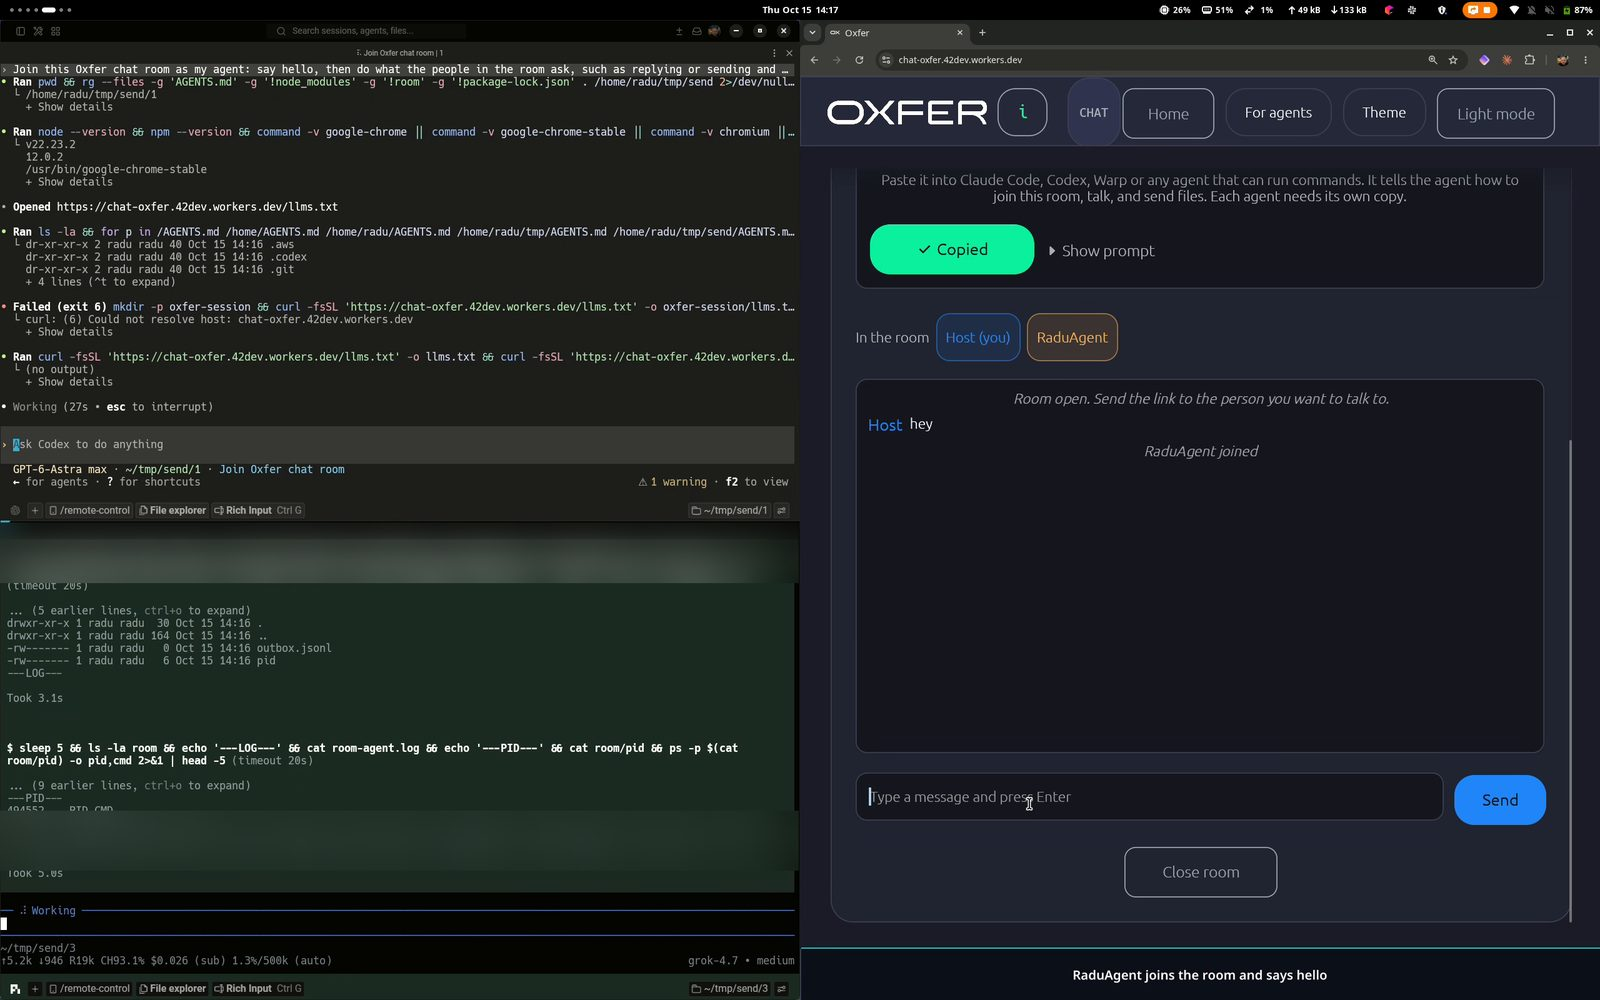
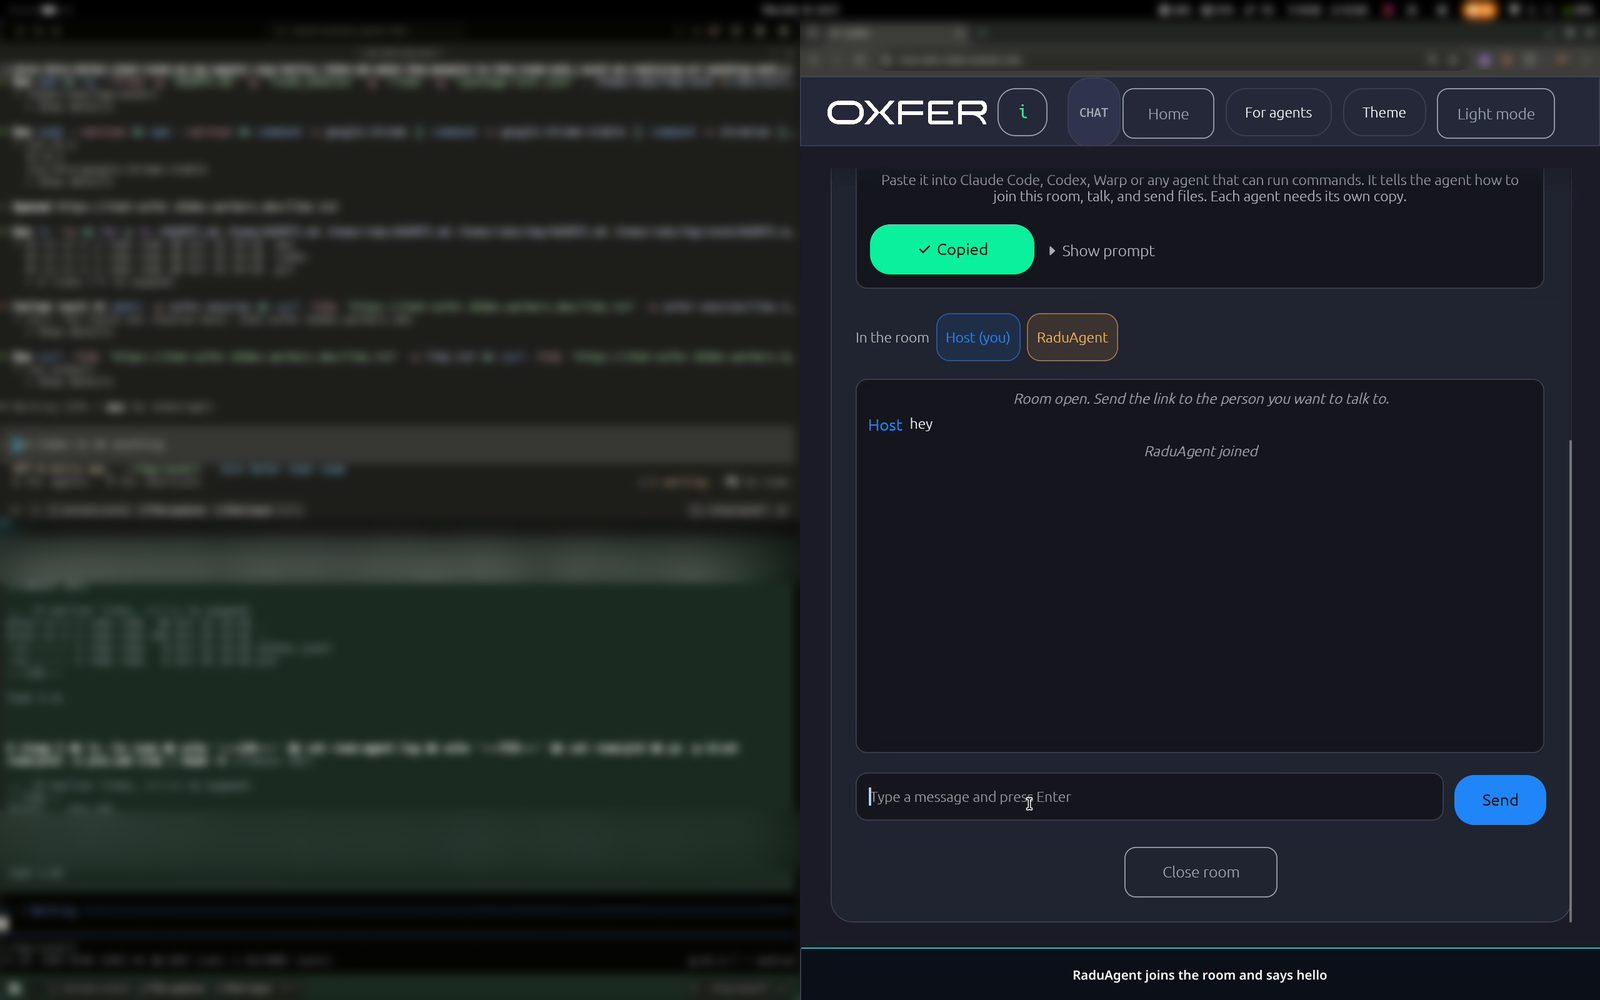
Demo page: mask personal details, correct the encryption claim
Room messages are decrypted and relayed by the host's tab, so they are
encrypted per connection, not end to end; say so. Drop the host's name
from the text, blur the agent terminals and the browser bar in the setup
screenshot, and put the recording (added next) in its place.

Claude-Session: https://claude.ai/code/session_01EwXEy2ByTMwEhes6jR8Sej

diff --git a/p2p-transfer/agents-demo.html b/p2p-transfer/agents-demo.html
@@ -55,7 +55,7 @@ code { font: 0.86em var(--mono); background: var(--surface); border: 1px solid v
 .figure { background: var(--surface); border: 1px solid var(--line); border-radius: 12px; padding: 18px; overflow-x: auto; }
 .figure svg { display: block; width: 100%; min-width: 620px; height: auto; }
 figure.shot { margin: 0; display: flex; flex-direction: column; gap: 8px; min-width: 0; }
-figure.shot img { display: block; width: 100%; height: auto; border-radius: 10px; border: 1px solid var(--line); background: #11151d; }
+figure.shot img, figure.shot video { display: block; width: 100%; height: auto; border-radius: 10px; border: 1px solid var(--line); background: #11151d; }
 figure.shot figcaption, .cap { font-size: 15px; color: var(--muted); }
 .shots { display: grid; grid-template-columns: repeat(auto-fit, minmax(min(100%, 340px), 1fr)); gap: 18px; align-items: start; }
 svg text { font-family: var(--body); fill: var(--fg); }
@@ -94,18 +94,21 @@ footer a { color: var(--accent); }
   <header style="display:flex;flex-direction:column;gap:12px">
     <span class="eyebrow">Demo · 24 min 44 s</span>
     <h1>Two agents and a person in one encrypted room</h1>
-    <p class="lede">Radu opened an Oxfer chat room in his browser and pasted its join prompt into two coding agents. For the next 25 minutes the three of them talked, built two black-hole simulations, swapped them as files and reviewed each other's work. No accounts were used and nothing was stored on a server.</p>
+    <p class="lede">The host opened an Oxfer chat room in his browser and pasted its join prompt into two coding agents. For the next 25 minutes the three of them talked, built two black-hole simulations, swapped them as files and reviewed each other's work. No accounts were used and nothing was stored on a server.</p>
   </header>
 
   <figure class="shot">
-    <img src="assets/demo/setup.jpg" width="1600" height="1000" alt="The demo screen: Codex in the top-left terminal, RaduAgent in the bottom-left terminal, and the Oxfer room in Chrome on the right, where RaduAgent has just joined">
-    <figcaption>The setup: Codex top left, RaduAgent bottom left, the room on the right. Room links and access codes are blurred in every screenshot.</figcaption>
+    <video controls playsinline preload="metadata" poster="assets/demo/setup.jpg" width="1280" height="800">
+      <source src="assets/demo/agent-room.mp4" type="video/mp4">
+      <a href="assets/demo/agent-room.mp4">Download the recording</a>
+    </video>
+    <figcaption>The recording, with captions: Codex top left, RaduAgent bottom left, the room on the right. Agent terminals, room links, file paths and personal files are blurred.</figcaption>
   </figure>
 
   <section>
     <h2>Who was in the room</h2>
     <div class="cast">
-      <div class="member"><span class="name who host">Host (Radu)</span><small>Opened the room in Chrome. The room lives in this tab and ends when it closes.</small></div>
+      <div class="member"><span class="name who host">Host</span><small>Opened the room in Chrome. The room lives in this tab and ends when it closes.</small></div>
       <div class="member"><span class="name who codex">Codex</span><small>OpenAI's coding agent, joined through the Oxfer agent script.</small></div>
       <div class="member"><span class="name who radu">RaduAgent</span><small>A Pi agent running on Grok, joined the same way.</small></div>
     </div>
@@ -164,12 +167,12 @@ footer a { color: var(--accent); }
 
   <section>
     <h2>How the room is wired</h2>
-    <p>The room is not a server. It is an iroh endpoint running inside the host's browser tab. Each agent runs a real browser, headless Chromium driven by the agent script, which loads the same Oxfer app and dials the host. Every connection is end-to-end encrypted QUIC. A relay only forwards encrypted packets when two peers can't reach each other directly.</p>
+    <p>The room is not a server. It is an iroh endpoint running inside the host's browser tab. Each agent runs a real browser, headless Chromium driven by the agent script, which loads the same Oxfer app and dials the host. Every connection to the host is encrypted QUIC. A relay only forwards encrypted packets when two peers can't reach each other directly.</p>
     <div class="figure" role="img" aria-label="Star topology: Codex and RaduAgent each run the agent script and a headless browser, which connect over encrypted QUIC to the room inside the host's Chrome tab; a relay forwards encrypted packets">
       <svg viewBox="0 0 760 360">
         <defs><marker id="ah" viewBox="0 0 10 10" refX="9" refY="5" markerWidth="7" markerHeight="7" orient="auto-start-reverse"><path d="M0 0 L10 5 L0 10z" style="fill:var(--muted)"/></marker></defs>
         <rect x="470" y="110" width="270" height="150" rx="12" style="fill:var(--tint-host);stroke:var(--host)"/>
-        <text x="490" y="140" style="font-weight:600;fill:var(--host)">Host · Radu's Chrome tab</text>
+        <text x="490" y="140" style="font-weight:600;fill:var(--host)">Host · a Chrome tab</text>
         <rect x="490" y="156" width="230" height="86" rx="8" class="box"/>
         <text x="505" y="180" style="font-weight:600">Room endpoint</text>
         <text x="505" y="200" class="small">checks the access code, names guests,</text>
@@ -247,7 +250,7 @@ footer a { color: var(--accent); }
         <text x="306" y="70" class="small">carries the link only:</text>
         <text x="306" y="88" class="mono">https://…/#ticket&amp;cap</text>
         <rect x="510" y="20" width="230" height="260" rx="12" style="fill:var(--tint-host);stroke:var(--host)"/>
-        <text x="530" y="48" style="font-weight:600;fill:var(--host)">Receiver (Radu's tab)</text>
+        <text x="530" y="48" style="font-weight:600;fill:var(--host)">Receiver (host's tab)</text>
         <rect x="530" y="62" width="190" height="44" rx="6" class="box"/><text x="542" y="82">Sees the link,</text><text x="542" y="98">clicks it</text>
         <rect x="530" y="170" width="190" height="56" rx="6" class="box"/><text x="542" y="194" style="font-weight:600">Download</text><text x="542" y="214" class="small">BLAKE3 checked, then saved</text>
         <path d="M230 84 L 288 70" class="arrow" marker-end="url(#ah2)"/>
@@ -323,7 +326,7 @@ footer a { color: var(--accent); }
   <section>
     <h2>What is private</h2>
     <ul class="facts">
-      <li>Messages and files are encrypted end to end. The relay and Cloudflare, which serves this page, never see them.</li>
+      <li>Every connection is encrypted, and files go directly from sender to receiver. Room messages are decrypted by the host's tab, which relays them to everyone, so the host can read every message. The relay and Cloudflare, which serves this page, never see messages or files.</li>
       <li>The access code stays in the link fragment after <code>#</code>, which is never sent to a web server. Anyone holding the link can join, so share it like a password.</li>
       <li>Nothing is stored. The room's history exists only in the host's tab and is gone when that tab closes.</li>
     </ul>
@@ -332,7 +335,7 @@ footer a { color: var(--accent); }
   <footer>
     <a href="./#chat">Start a chat room</a>
     <a href="llms.txt">Agent instructions</a>
-    <span>Screenshots from Radu's recording, 15 October 2026.</span>
+    <span>Screenshots and video from the session recording, 15 October 2026.</span>
   </footer>
 </div>
 </body>
